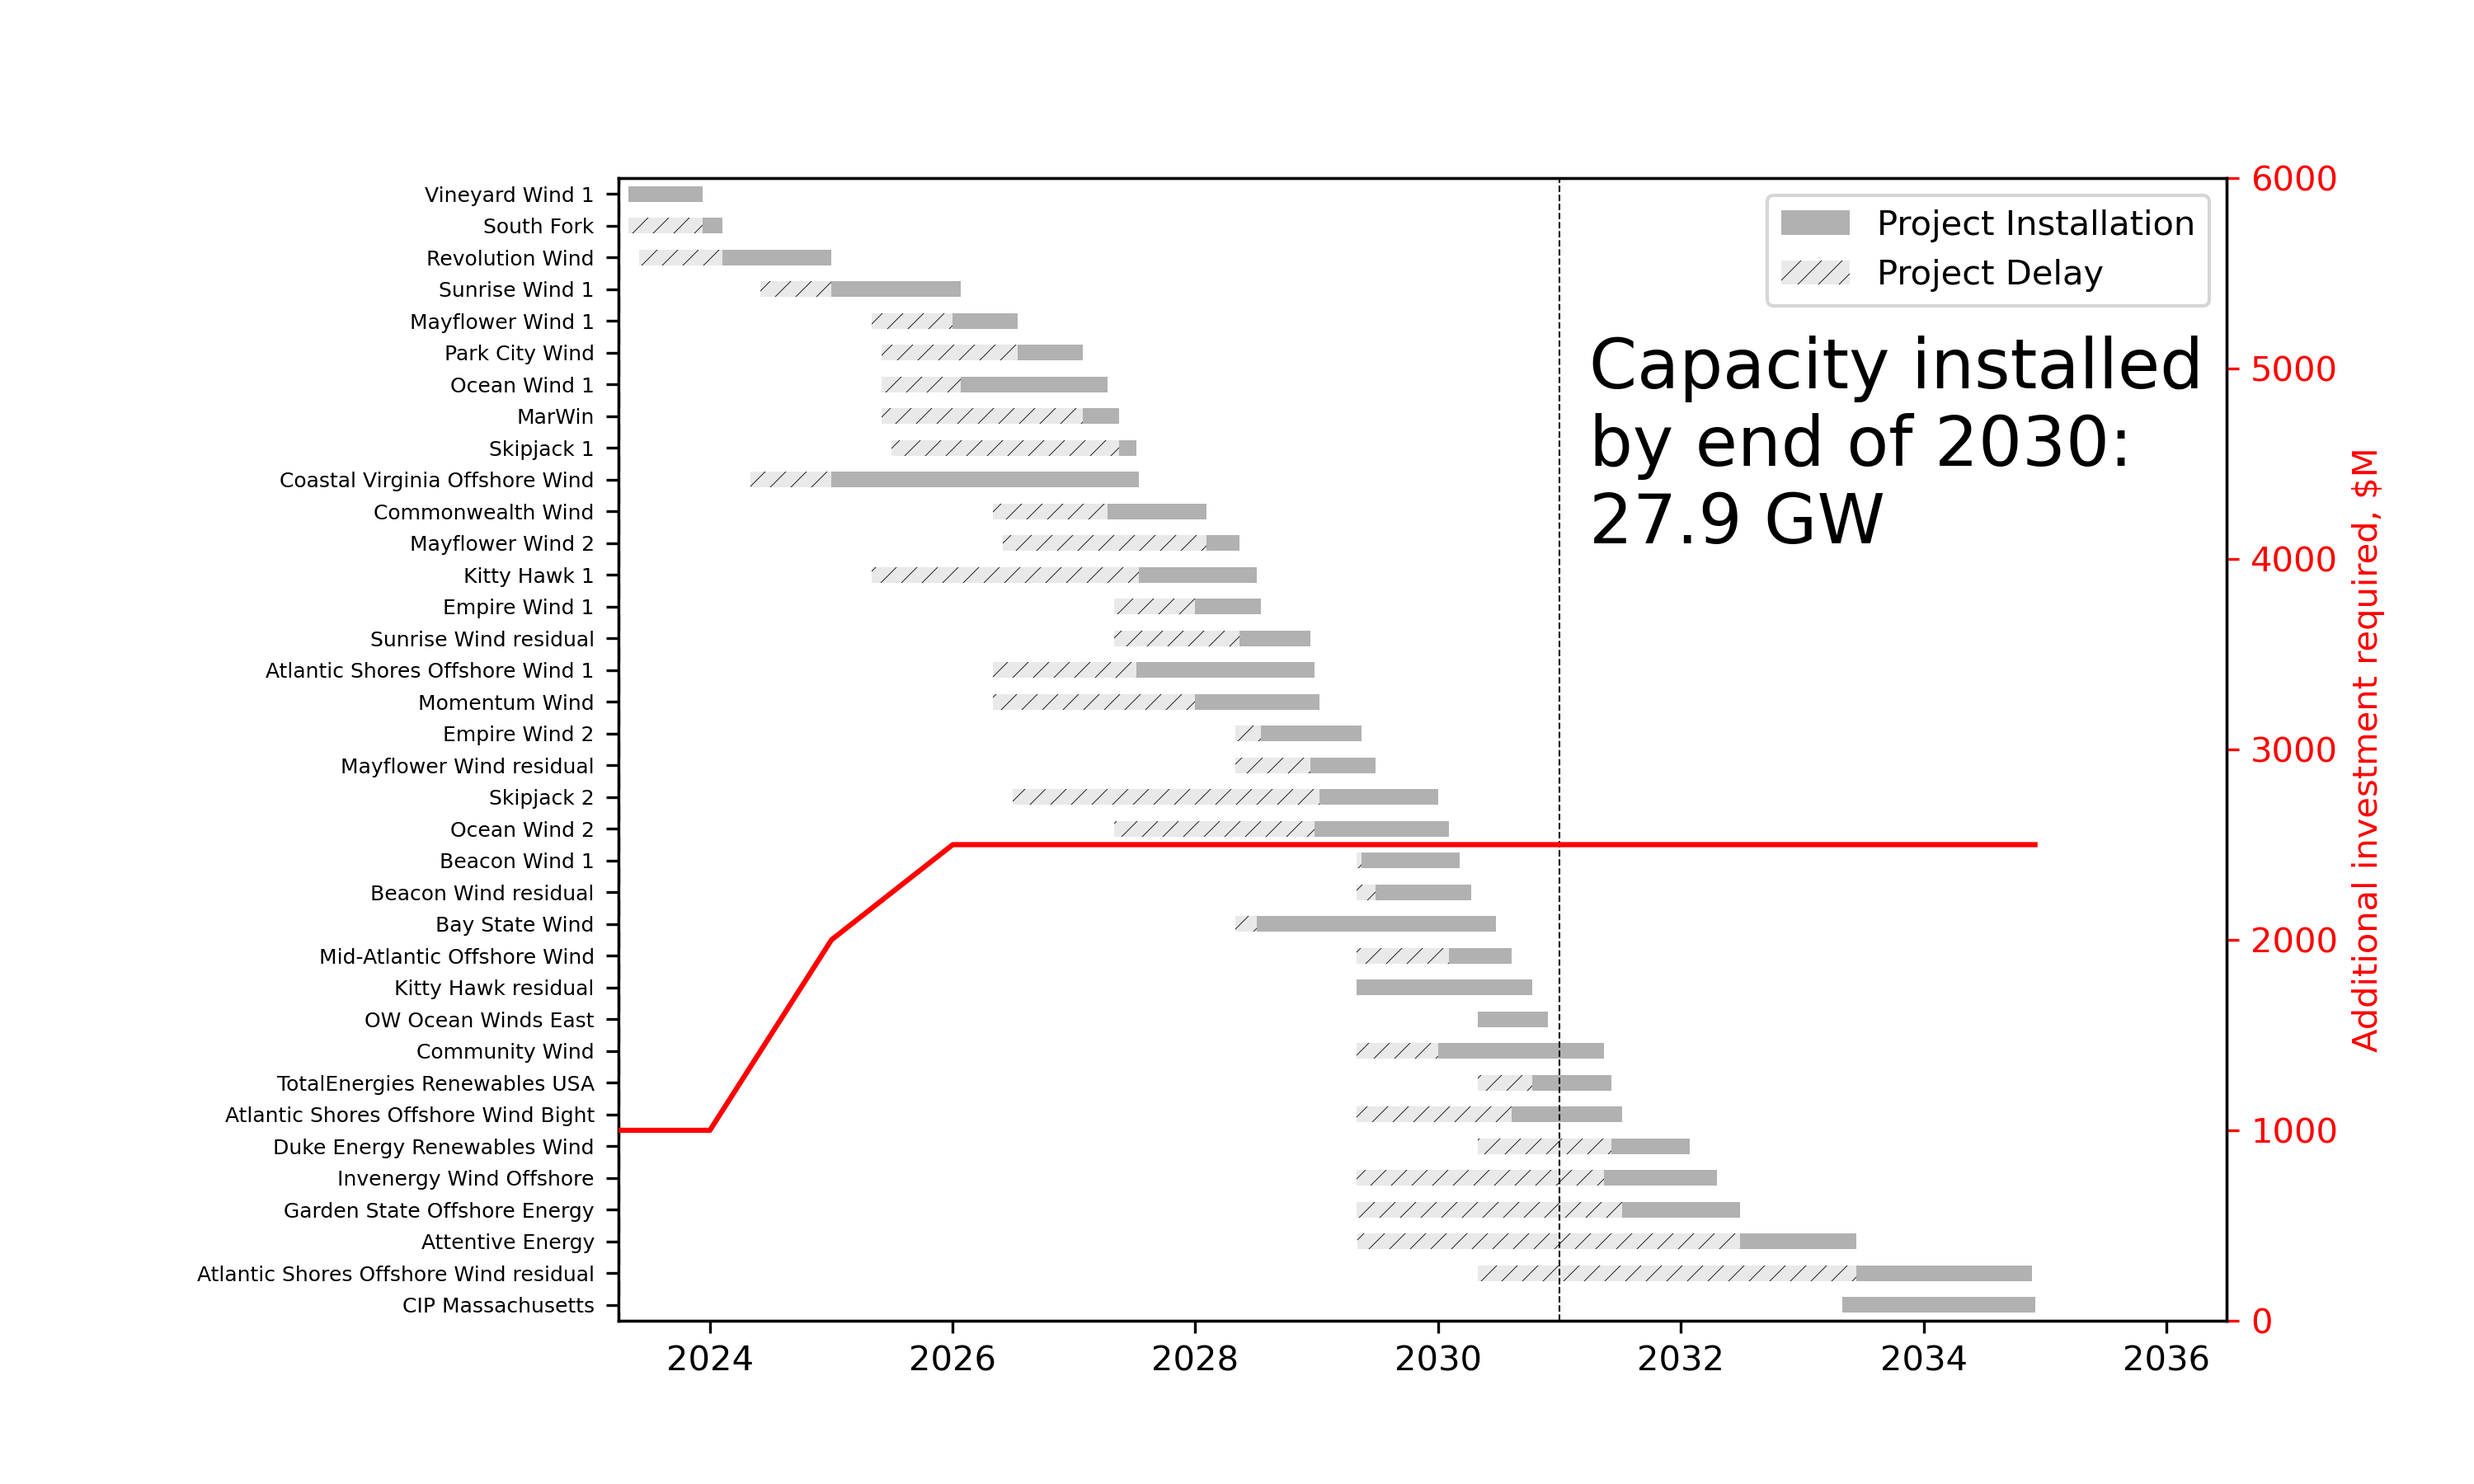
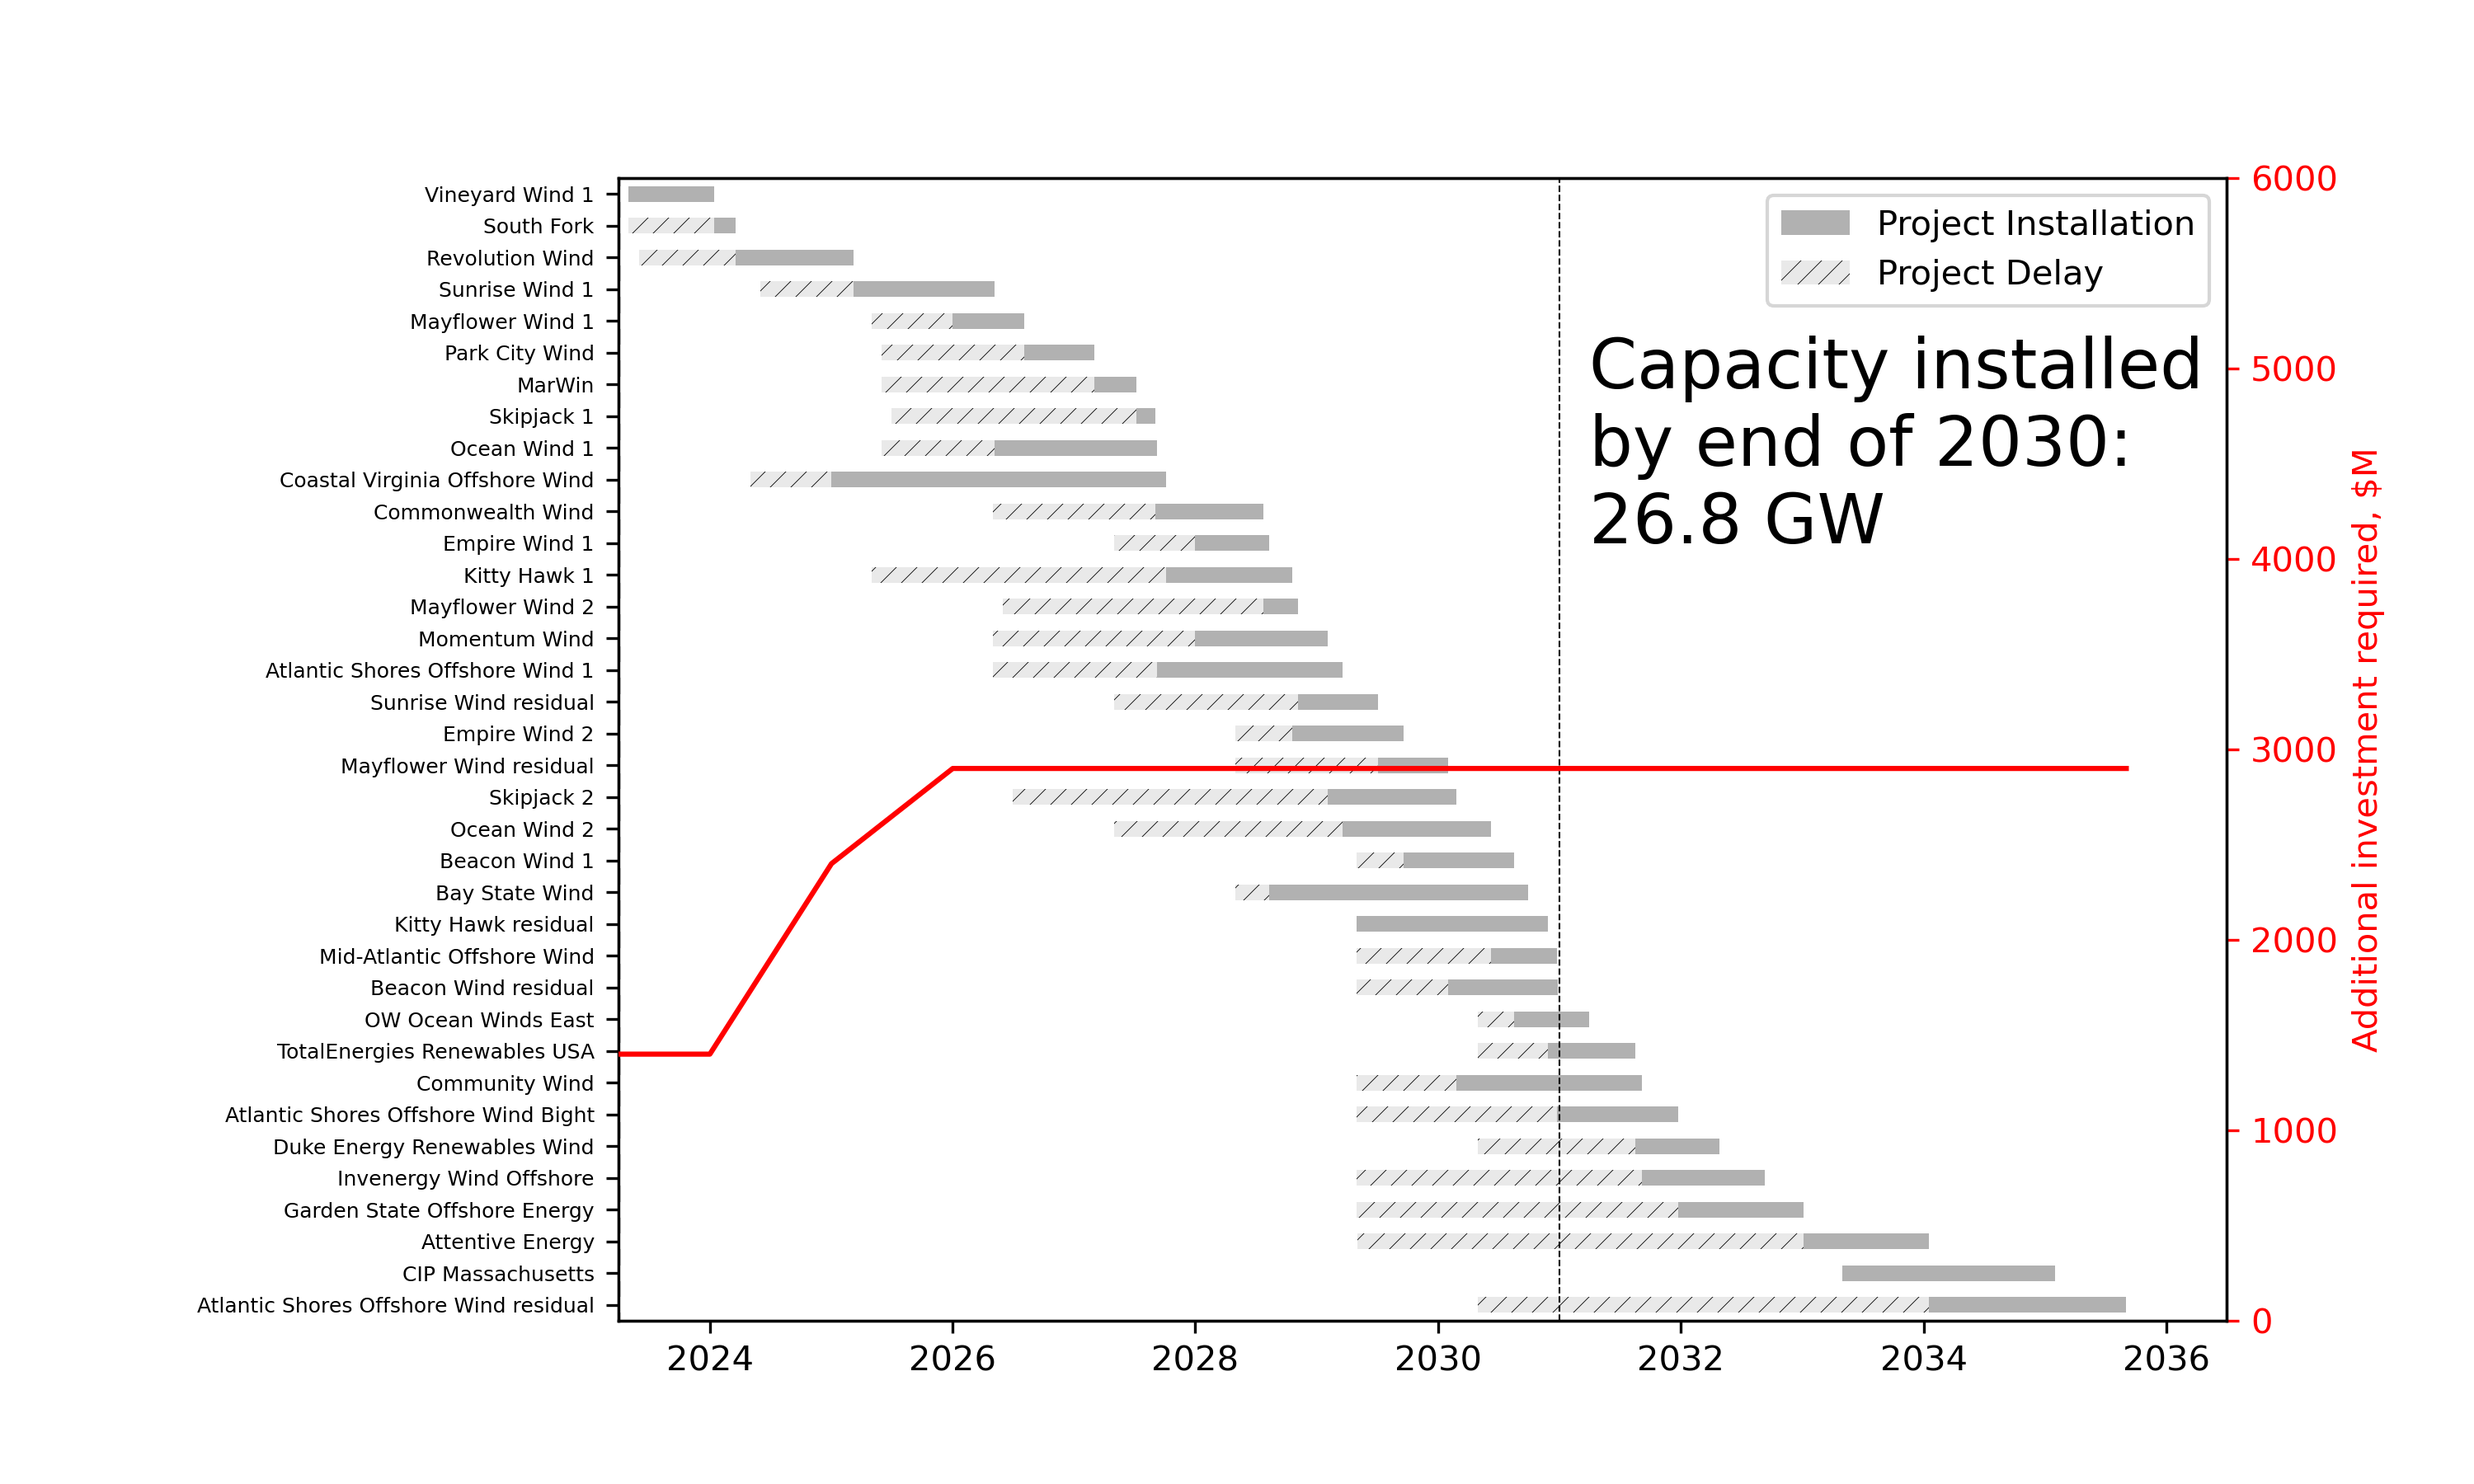
Update initial port costs to reuire funds for tradepoint, SBMT, NJWP

diff --git a/helpers.py b/helpers.py
@@ -75,12 +75,12 @@ future_allocations = {
 current_investment = 150 + 157 + 200 + 400 + 500 #New Bedford, New London, SBMT, NJWP, Charybdis
 wtiv = 500
 port = 400
-investments = {
+investments = {  # Include one 'port' in 2022 to cover additioanl grants for ports that are under construction (tradepoint, SBMT, NJWP)
 'year': [2022, 2023, 2024, 2025, 2026, 2027, 2028, 2028, 2030],
-'base_wtiv': [wtiv, 0, 0, wtiv, 0, 0, 0, 0, 0],
-'high_wtiv': [wtiv, wtiv, 0, wtiv+wtiv, wtiv, 0, 0, 0, 0],
-'add_port': [0, 0, port, port, port, 0, 0, 0, 0],  #Salem, NJWP2, AKT
-'add_ports_fast': [port+port, 0, port, 0, 0, 0, 0, 0, 0],  #Salem, NJWP2, AKT
+'base_wtiv': [wtiv+port, 0, 0, wtiv, 0, 0, 0, 0, 0],
+'high_wtiv': [wtiv+port, wtiv, 0, wtiv+wtiv, wtiv, 0, 0, 0, 0],
+'add_port': [port, 0, port, port, port, 0, 0, 0, 0],  #Salem, NJWP2, AKT
+'add_ports_fast': [port+port+port, 0, port, 0, 0, 0, 0, 0, 0],  #Salem, NJWP2, AKT
 }
 
 plot_names_map = {

diff --git a/run_analysis.py b/run_analysis.py
@@ -83,7 +83,7 @@ if __name__ == '__main__':
         num_wtiv = allocations['wtiv'][1]
         num_port = len(allocations['port'])
 
-        manager = GlobalManager(pipeline.configs, allocations, library_path=library_path)
+        manager = GlobalManager(pipeline.configs, allocations, library_path=library_path, weather=weather)
 
         new_wtiv = [1 for fr in future_resources if 'wtiv' in fr]
         new_ports = [1 for fr in future_resources if 'port' in fr]
@@ -194,7 +194,7 @@ if __name__ == '__main__':
         fig = plt.figure(figsize=(6, 4), dpi=200)
         ax = fig.add_subplot(111)
 
-        throughput.plot(ax=ax, lw=0.7)
+        throughput.plot.bar(ax=ax, width=0.75)
 
         ax.set_ylim(0, 2000)
 
